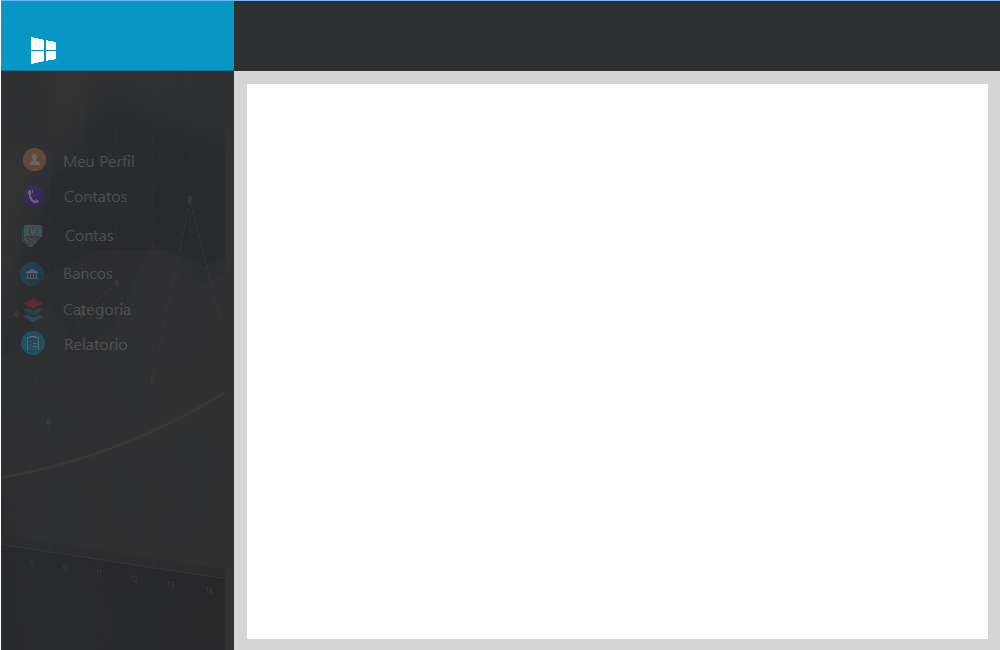
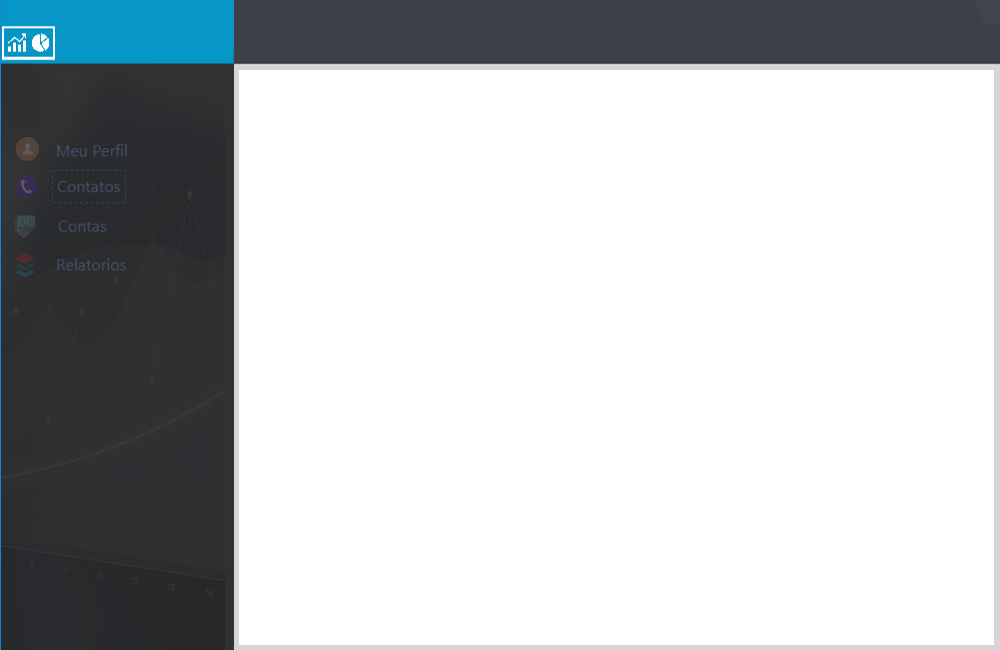
Editando Jhon commitou: concertos basicos

diff --git a/ProjetoAccountManager/src/br/ufrpe/account_manager/gui/Inicio.java b/ProjetoAccountManager/src/br/ufrpe/account_manager/gui/Inicio.java
@@ -181,48 +181,33 @@ public class Inicio extends Application {
 	}
 
 	@FXML
-	public void menuBanco() {
-
-	}
-
-	@FXML
-	public void menuCategoria() {
-
-	}
-
-	@FXML
 	public void menuContatos() {
 		try {
 			FXMLLoader loader = new FXMLLoader();
 			loader.setLocation(Inicio.class.getResource("/br/ufrpe/account_manager/gui/TelaMenuContatos.fxml"));
 			AnchorPane Login = (AnchorPane) loader.load();
-
 			rootLayout.setCenter(Login);
 			TelaLoginController controller = loader.getController();
 			controller.setPrincipal(this.getInstance());
-
 		} catch (IOException e) {
 			e.printStackTrace();
 		}
-
 	}
 
 	@FXML
 	public void menuContas() {
-		
+
 		try {
 			FXMLLoader loader = new FXMLLoader();
 			loader.setLocation(Inicio.class.getResource("/br/ufrpe/account_manager/gui/TelaMenuContas.fxml"));
 			AnchorPane Login = (AnchorPane) loader.load();
-
 			rootLayout.setCenter(Login);
 			TelaLoginController controller = loader.getController();
 			controller.setPrincipal(this.getInstance());
-
 		} catch (IOException e) {
 			e.printStackTrace();
 		}
-		
+
 	}
 
 	@FXML
